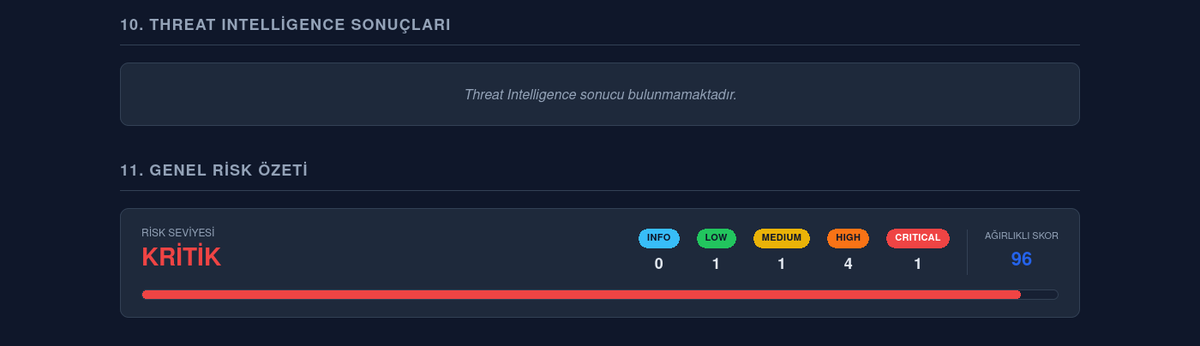
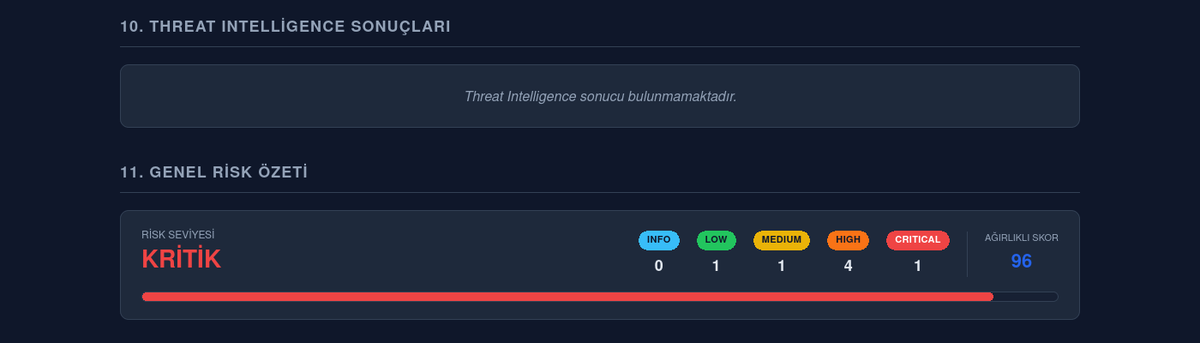
fix(reporter): "1 LOW bulgu = TEMİZ" hatası ve etiketiyle çelişen risk çubuğu
1) 1-3 puanlık skorlar "TEMİZ" raporlanıyordu.
   Eşik tablosu (0 TEMİZ, 4 DÜŞÜK, 5 ORTA, 15 YÜKSEK, 30 KRİTİK) 1, 2 ve 3
   puanlarını hiçbir banda koymuyordu; bu skorlar `>= 0` kovasına düşüp
   "TEMİZ" oluyordu. Yani 1-3 adet LOW bulgu içeren bir capture'da rapor,
   bulgu tablosunda o bulguları listelerken en üstte "Risk Seviyesi: TEMİZ"
   yazıyordu. Adli bir raporda hatanın bu yönü -- var olan bulguyu yok
   saymak -- en tehlikeli olanıdır.

   DÜŞÜK eşiği 4 -> 1. Testlerde sabitlenmiş sınırların HİÇBİRİ değişmiyor
   (4 hâlâ DÜŞÜK, 5 ORTA, 14 ORTA, 15 YÜKSEK, 29 YÜKSEK, 30 KRİTİK);
   yalnızca 1-3 aralığındaki boşluk kapanıyor. "TEMİZ" artık yalnızca
   ağırlıklı skor 0 iken görünür.

2) İlerleme çubuğu kendi etiketiyle çelişiyordu.
   Çubuk `min(skor, 100)` idi, yani skoru doğrudan yüzde sayıyordu. Tek bir
   CRITICAL bulgu 30 puan eder: rapor "Risk Seviyesi: KRİTİK" yazarken hemen
   altındaki çubuk %30 dolu, yani gözle "düşük risk" görünüyordu. Ters uçta
   20 HIGH (300 puan) ile 100 CRITICAL (3000 puan) çubukta ayırt
   edilemiyordu, ikisi de %100'e kırpılıyordu. Çubuk, adı "yüzde" olan ama
   hiçbir tanımlı büyüklüğü ölçmeyen bir göstergeydi.

   Çubuk artık skorun düştüğü BANDI gösteriyor: TEMİZ dışındaki dört bandın
   her biri çubuğun %25'ini kaplıyor, band içinde skorla orantılı
   ilerleniyor, sınırsız olan KRİTİK bandı eşiğin 4 katında doyuyor.
   Böylece KRİTİK daima >= %75 dolu görünür ve çubuk ile etiket asla
[…]

diff --git a/tests/snapshots/report_snapshot.html b/tests/snapshots/report_snapshot.html
@@ -652,8 +652,8 @@ Threat Intelligence sonucu bulunmamaktadır.
 </div>
 </div>
 </div>
-<div class="progress-bar-bg" title="Ağırlıklı risk skoru: 15 (gösterge 100'de sınırlandırılmıştır)">
-<div class="progress-bar-fill" style="width: 15%;"></div>
+<div class="progress-bar-bg" title="Ağırlıklı risk skoru: 15 — çubuk, skorun düştüğü risk bandını gösterir (her band çubuğun dörtte biri)">
+<div class="progress-bar-fill" style="width: 50%;"></div>
 </div>
 </div>
 </section>

diff --git a/tests/test_reporter.py b/tests/test_reporter.py
@@ -307,27 +307,33 @@ class TestRiskSummaryAndChartBuilderUnits:
         summary_score_60 = r.compute_risk_summary([make_finding(ThreatSeverity.CRITICAL)] * 2)
         assert summary_score_60.risk_level == "KRİTİK"
 
-    def test_risk_score_is_unbounded_but_display_value_is_clamped(self):
-        """Ham skor sınırsız kalmalı, sunum değeri 0-100 aralığına kırpılmalıdır.
+    def test_risk_score_is_unbounded_but_display_value_stays_in_range(self):
+        """Ham skor sınırsız kalmalı, sunum değeri 0-100 aralığında olmalıdır.
 
-        Şablon ilerleme çubuğunu `width: {{ skor }}%` ile çiziyordu; ham skor
-        sınırsız bir ağırlıklı toplam olduğundan (20 HIGH = 300) çubuk
-        kapsayıcısını taşırıyor ve rapor "300 / 100" gibi anlamsız bir değer
-        basıyordu. Eşik tablosu ham skora göre kalibre edildiği için ham
-        değerin kendisi ASLA kırpılmamalıdır.
+        Şablon ilerleme çubuğunu `width: {{ değer }}%` ile çiziyor; ham skor
+        sınırsız bir ağırlıklı toplam olduğundan (20 HIGH = 300) doğrudan
+        kullanılırsa çubuk kapsayıcısını taşırır. Eşik tablosu ham skora göre
+        kalibre edildiği için ham değerin kendisi ASLA kırpılmamalıdır.
+
+        NOT: Sunum değeri skorun kendisi DEĞİL, skorun düştüğü risk bandının
+        çubuktaki konumudur (bkz. _compute_risk_bar_position ve
+        TestRiskBarAndLevelConsistency). Bu testin eski hâli
+        `risk_score_normalized == risk_score` bekliyordu; o eşitlik tam da
+        "KRİTİK etiketi + %30 dolu çubuk" çelişkisinin kaynağıydı.
         """
         def make_finding(severity: ThreatSeverity) -> ThreatFinding:
             return ThreatFinding("ID", "Title", severity, "", {}, "src", "dst", FIXED_TEST_NOW)
 
         summary = r.compute_risk_summary([make_finding(ThreatSeverity.HIGH)] * 20)
         assert summary.risk_score == 300, "ham skor kırpılmamalı (eşik tablosu buna bağlı)"
-        assert summary.risk_score_normalized == 100, "sunum değeri 100'de sınırlanmalı"
+        assert summary.risk_score_normalized == 100, "çubuk kapsayıcısını taşımamalı"
         assert summary.risk_level == "KRİTİK"
 
-        # Eşiğin altındaki skorlarda iki değer birbirinin aynısı olmalı.
-        low_summary = r.compute_risk_summary([make_finding(ThreatSeverity.HIGH)])
-        assert low_summary.risk_score == 15
-        assert low_summary.risk_score_normalized == 15
+        # Tek bir HIGH: ham skor 15, ama çubuk YÜKSEK bandının başında olmalı.
+        high_summary = r.compute_risk_summary([make_finding(ThreatSeverity.HIGH)])
+        assert high_summary.risk_score == 15
+        assert high_summary.risk_level == "YÜKSEK"
+        assert high_summary.risk_score_normalized == 50
 
         assert r.compute_risk_summary([]).risk_score_normalized == 0
 
@@ -993,3 +999,91 @@ class TestLayeredProtocolChart:
 
         assert ids.index("layered_protocol_distribution") == ids.index("protocol_distribution") + 1
         assert len(charts) == 7
+
+
+class TestRiskBarAndLevelConsistency:
+    """Risk seviyesi etiketi ile ilerleme çubuğu asla çelişmemeli."""
+
+    # (etiket -> çubuğun izin verilen aralığı). Bantlar çubuğu dörde böler.
+    LEVEL_BANDS: ClassVar[dict[str, tuple[int, int]]] = {
+        "TEMİZ": (0, 0),
+        "DÜŞÜK": (1, 25),
+        "ORTA": (25, 50),
+        "YÜKSEK": (50, 75),
+        "KRİTİK": (75, 100),
+    }
+
+    @staticmethod
+    def _findings(**counts: int) -> list[ThreatFinding]:
+        out: list[ThreatFinding] = []
+        for name, n in counts.items():
+            severity = ThreatSeverity[name.upper()]
+            out.extend(
+                ThreatFinding(f"R-{name}-{i}", "t", severity, "d", {}, "src")
+                for i in range(n)
+            )
+        return out
+
+    def test_single_low_finding_is_not_reported_as_clean(self):
+        """1-3 puanlık skorlar "TEMİZ" DEĞİL "DÜŞÜK" olmalı.
+
+        Regresyon: DÜŞÜK eşiği 4'tü, dolayısıyla 1, 2 veya 3 adet LOW bulgu
+        hiçbir eşiği karşılamıyor ve "TEMİZ" kovasına düşüyordu. Rapor, bulgu
+        tablosunda gerçek bulguları listelerken en üstte "Risk Seviyesi:
+        TEMİZ" yazıyordu. Adli bir raporda hatanın bu yönü -- var olan bulguyu
+        yok saymak -- en tehlikelisidir.
+        """
+        for count in (1, 2, 3):
+            summary = r.compute_risk_summary(self._findings(low=count))
+            assert summary.risk_score == count
+            assert summary.total_findings == count
+            assert summary.risk_level == "DÜŞÜK", (
+                f"{count} adet LOW bulgu '{summary.risk_level}' olarak raporlandı"
+            )
+
+    def test_clean_is_reserved_for_zero_weight(self):
+        """"TEMİZ" yalnızca ağırlıklı skor 0 iken görünmeli."""
+        assert r.compute_risk_summary([]).risk_level == "TEMİZ"
+        # INFO'nun ağırlığı 0'dır (bilgilendirme, tehdit değil).
+        assert r.compute_risk_summary(self._findings(info=5)).risk_level == "TEMİZ"
+
+    @pytest.mark.parametrize(
+        "counts",
+        [
+            {"low": 1}, {"low": 4}, {"medium": 1}, {"medium": 2, "low": 4},
+            {"high": 1}, {"high": 1, "medium": 2, "low": 4},
+            {"critical": 1}, {"critical": 2},
+            {"critical": 1, "high": 4, "medium": 1, "low": 1},
+            {"high": 20}, {"critical": 100},
+        ],
+    )
+    def test_bar_position_always_matches_its_level_band(self, counts):
+        """Çubuğun doluluğu, etiketin bandının dışına ASLA çıkmamalı.
+
+        Regresyon: çubuk `min(skor, 100)` idi. Tek bir CRITICAL bulgu 30 puan
+        eder; rapor "KRİTİK" yazarken çubuk %30 dolu, yani gözle "düşük risk"
+        görünüyordu. Ters uçta 20 HIGH (300) ile 100 CRITICAL (3000) çubukta
+        ayırt edilemiyor, ikisi de %100'e kırpılıyordu.
+        """
+        summary = r.compute_risk_summary(self._findings(**counts))
+        low, high = self.LEVEL_BANDS[summary.risk_level]
+
+        assert low <= summary.risk_score_normalized <= high, (
+            f"skor={summary.risk_score} seviye={summary.risk_level} "
+            f"çubuk=%{summary.risk_score_normalized} bandın ({low}-{high}) dışında"
+        )
+
+    def test_bar_never_exceeds_container_width(self):
+        """Sınırsız skor, çubuğu kapsayıcısından taşırmamalı."""
+        summary = r.compute_risk_summary(self._findings(critical=1000))
+        assert summary.risk_score == 30000
+        assert summary.risk_score_normalized == r._RISK_SCORE_DISPLAY_MAX
+
+    def test_bar_is_monotonic_in_score(self):
+        """Skor arttıkça çubuk asla geri gitmemeli."""
+        positions = [
+            r._compute_risk_bar_position(score)
+            for score in range(0, 400)
+        ]
+        assert positions == sorted(positions)
+        assert positions[0] == 0

diff --git a/modules/reporter.py b/modules/reporter.py
@@ -81,10 +81,22 @@ _SEVERITY_WEIGHT: Final[dict[ThreatSeverity, int]] = {
 
 # (eşik_skoru, etiket, css_sınıfı) üçlüleri artan sırada. En yüksek eşiğe ulaşan
 # etiket kazanır (bkz. compute_risk_summary).
-# Test beklentilerine göre (0 -> TEMİZ, 4 -> DÜŞÜK, 5 -> ORTA, 15 -> YÜKSEK, 30 -> KRİTİK) ayarlanmıştır.
+#
+# Sabitlenmiş sınır değerleri (testlerle korunuyor, API sözleşmesi sayılır):
+# 0 -> TEMİZ, 4 -> DÜŞÜK, 5 -> ORTA, 14 -> ORTA, 15 -> YÜKSEK, 29 -> YÜKSEK,
+# 30 -> KRİTİK.
+#
+# DÜŞÜK eşiği 4 DEĞİL 1'dir. Daha önce 4'tü ve bu, adli bir araçta kabul
+# edilemez bir yanlış sonuç üretiyordu: 1, 2 veya 3 puanlık skorlar (yani
+# 1-3 adet LOW bulgu) hiçbir eşiği karşılamadığı için "TEMİZ" kovasına
+# düşüyordu. Rapor, bulgu tablosunda gerçek bulgular listelerken en üstte
+# "Risk Seviyesi: TEMİZ" yazıyordu. Bir DFIR raporunda hatanın bu yönü
+# (var olan bulguyu yok saymak) en tehlikeli olanıdır. 1'e çekmek, yukarıda
+# sabitlenmiş sınırların hiçbirini değiştirmez -- 4 hâlâ DÜŞÜK, 5 hâlâ ORTA --
+# yalnızca 1-3 aralığındaki boşluğu kapatır.
 _RISK_THRESHOLDS: Final[tuple[tuple[int, str, str], ...]] = (
     (0, "TEMİZ", "clean"),
-    (4, "DÜŞÜK", "low"),
+    (1, "DÜŞÜK", "low"),
     (5, "ORTA", "medium"),
     (15, "YÜKSEK", "high"),
     (30, "KRİTİK", "critical"),
@@ -92,14 +104,67 @@ _RISK_THRESHOLDS: Final[tuple[tuple[int, str, str], ...]] = (
 
 # `risk_score` SINIRSIZ bir ağırlıklı toplamdır (7 HIGH = 105, 20 HIGH = 300);
 # eşik tablosu bu ham değere göre kalibre edildiğinden ham değer asla
-# ölçeklenmemeli veya kırpılmamalıdır. Ancak rapor bu skoru "X / 100" olarak
-# ve genişliği `width: {{ skor }}%` olan bir ilerleme çubuğuyla gösteriyordu:
-# olaylı bir capture'da "300 / 100" gibi anlamsız bir değer basılıyor ve
-# çubuk kapsayıcısını taşırıyordu. Bu yüzden SUNUM için ayrı, 0-100 aralığına
-# kırpılmış bir alan (`risk_score_normalized`) üretilir; ham `risk_score`
-# ise metinde olduğu gibi, kırpılmadan gösterilmeye devam eder (kanıt kaybı
-# olmaz).
+# ölçeklenmemeli veya kırpılmamalıdır. İlerleme çubuğunun genişliği ise
+# `width: N%` olduğundan 0-100 aralığında bir değere ihtiyaç duyar.
 _RISK_SCORE_DISPLAY_MAX: Final[int] = 100
+
+# Çubuk, KRİTİK bandında eşiğin bu KATINA ulaşınca tamamen dolar
+# (30 * 4 = 120 puan). Sınırsız bir skoru sonlu bir çubuğa sığdırmak için bir
+# doyma noktası gerekir; 4 kat, "birkaç kritik bulgu" ile "capture baştan sona
+# saldırı" durumlarını ayırt edecek kadar geniştir.
+_CRITICAL_BAR_SATURATION_FACTOR: Final[int] = 4
+
+
+def _compute_risk_bar_position(risk_score: int) -> int:
+    """Ham risk skorunu ilerleme çubuğunun doluluk yüzdesine çevirir.
+
+    NEDEN DÜZ `min(skor, 100)` DEĞİL: Çubuk eskiden skoru doğrudan yüzde
+    olarak kullanıyordu ve bu, çubuğun RİSK SEVİYESİ ETİKETİYLE ÇELİŞMESİNE
+    yol açıyordu. Tek bir CRITICAL bulgu 30 puan eder; rapor "Risk Seviyesi:
+    KRİTİK" yazarken hemen altındaki çubuk %30 dolu -- yani gözle "düşük
+    risk" -- görünüyordu. Ters uçta ise 20 HIGH (300 puan) ile 100 CRITICAL
+    (3000 puan) çubukta ayırt edilemiyordu, ikisi de %100'e kırpılıyordu.
+    Çubuk, adı "yüzde" olan ama hiçbir tanımlı büyüklüğü ölçmeyen bir
+    göstergeydi.
+
+    Bunun yerine çubuk artık SEVİYE BANDINI gösterir: TEMİZ dışındaki dört
+    bandın (DÜŞÜK/ORTA/YÜKSEK/KRİTİK) her biri çubuğun %25'ini kaplar, band
+    içinde skorla orantılı olarak ilerlenir. Böylece KRİTİK daima >= %75
+    dolu görünür ve çubuk ile etiket asla çelişmez. KRİTİK bandı sınırsız
+    olduğu için eşiğin `_CRITICAL_BAR_SATURATION_FACTOR` katında doyar.
+
+    Ham `risk_score` bu dönüşümden ETKİLENMEZ; raporda olduğu gibi, sayı
+    olarak gösterilmeye devam eder (kanıt kaybı olmaz).
+    """
+    if risk_score <= 0:
+        return 0
+
+    thresholds = [threshold for threshold, _label, _css in _RISK_THRESHOLDS]
+    band_count = len(thresholds) - 1  # TEMİZ bandı çubukta yer kaplamaz
+    band_width = _RISK_SCORE_DISPLAY_MAX / band_count
+
+    # Skorun içine düştüğü bandı bul (1..band_count).
+    band_index = 1
+    for i in range(1, len(thresholds)):
+        if risk_score >= thresholds[i]:
+            band_index = i
+
+    band_start = thresholds[band_index]
+    if band_index < len(thresholds) - 1:
+        band_end = thresholds[band_index + 1]
+    else:
+        # En üst (KRİTİK) band sınırsız; yapay bir doyma noktası kullanılır.
+        band_end = band_start * _CRITICAL_BAR_SATURATION_FACTOR
+
+    span = band_end - band_start
+    progress = (risk_score - band_start) / span if span > 0 else 1.0
+    progress = min(max(progress, 0.0), 1.0)
+
+    position = (band_index - 1) * band_width + progress * band_width
+    # Sıfırdan büyük her skor gözle görülür bir dolgu üretmeli; aksi halde
+    # "DÜŞÜK" seviyesi tamamen boş bir çubukla, yani "TEMİZ" ile aynı
+    # görünürdü.
+    return max(1, min(round(position), _RISK_SCORE_DISPLAY_MAX))
 
 # Öncelik sıralaması açıkça tanımlanmıştır; Enum sırası değişse dahi
 # sıralama mantığı bozulmaz (CRITICAL > HIGH > MEDIUM > LOW > INFO).
@@ -196,8 +261,10 @@ class RiskSummary:
     risk_score: int
     risk_level: str
     risk_class: str
-    # Yalnızca SUNUM içindir (ilerleme çubuğu genişliği); karşılaştırma veya
-    # eşik mantığında kullanılmamalıdır — bkz. _RISK_SCORE_DISPLAY_MAX.
+    # İlerleme çubuğunun doluluk yüzdesi (0-100). Skorun kendisi DEĞİL,
+    # skorun içine düştüğü risk BANDININ çubuktaki konumudur — bkz.
+    # _compute_risk_bar_position. Yalnızca SUNUM içindir; karşılaştırma veya
+    # eşik mantığında asla kullanılmamalıdır (onun için risk_score vardır).
     # Varsayılan değeri kasıtlı olarak yoktur: sessizce 0 genişlikli bir
     # çubuk üretmek yerine, eksik bırakılırsa kurulum anında hata versin.
     risk_score_normalized: int
@@ -240,7 +307,7 @@ def compute_risk_summary(findings: Sequence[ThreatFinding]) -> RiskSummary:
         risk_score=risk_score,
         risk_level=risk_level,
         risk_class=risk_class,
-        risk_score_normalized=min(risk_score, _RISK_SCORE_DISPLAY_MAX),
+        risk_score_normalized=_compute_risk_bar_position(risk_score),
     )
 
 

diff --git a/CLAUDE.md b/CLAUDE.md
@@ -71,13 +71,13 @@ Data contracts live in `modules/models.py` and are shared across every stage: `P
 
 **`modules/threat_intel.py`** — Strictly scoped to enrichment only (`IP → provider queries → NormalizedIOCResult`); it does not do scoring, severity, or report generation by design (YAGNI, left to `reporter.py`). Each provider is a `ThreatIntelProvider` subclass implementing only `query()` and, optionally, `_extract_provider_error()` for its own error JSON shape; shared HTTP mechanics (timeout, retry-aware session, error classification into `ProviderErrorCode`) live in the base class's `_execute_request`. `NormalizedIOCResult.is_malicious` is a tri-state (`True`/`False`/`None`) — `None` means the provider couldn't render a verdict (e.g., no data), and must not be treated as "clean". `ThreatIntelService.enrich()` caches per-IP results and never raises on a provider failure — a provider exception becomes an error `NormalizedIOCResult` instead, so one bad provider can't take down enrichment for the rest. Only globally-routable IPs are queried (`main.py`'s `_is_public_ip` filter) since private/reserved ranges are meaningless to these providers and some (e.g. OTX) reject them outright.
 
-**`modules/reporter.py`** — Strict separation between view (`templates/report.html.j2`, Jinja2) and generation logic (this file). `ChartBuilder` turns statistics into base64-embedded matplotlib PNGs (`matplotlib.use("Agg")`, no GUI backend) plus `TableRow` data — it has no knowledge of Jinja2 or the filesystem, so it's unit-testable in isolation. `compute_risk_summary` is a pure function (`findings → RiskSummary`) driven by the severity-weight table (`_SEVERITY_WEIGHT`) and ordered threshold table (`_RISK_THRESHOLDS`); the exact threshold values are pinned to test expectations (see the comment in `reporter.py`) — treat them as an API contract, not a tunable. `risk_score` is an *unbounded* weighted sum (20 HIGH findings = 300) and the threshold table is calibrated against that raw value, so it must never be scaled or clamped; the template renders it as-is. `risk_score_normalized` (clamped to `_RISK_SCORE_DISPLAY_MAX`) exists purely so the progress bar's `width: N%` cannot overflow its container — use it for presentation only, never for comparisons or thresholds. `Reporter` itself only orchestrates: validates input, calls `ChartBuilder`/`compute_risk_summary`, renders the template, writes the file. The generated report is a single HTML file with no external references (charts inlined as base64) so it can be opened offline on an air-gapped forensic workstation.
+**`modules/reporter.py`** — Strict separation between view (`templates/report.html.j2`, Jinja2) and generation logic (this file). `ChartBuilder` turns statistics into base64-embedded matplotlib PNGs (`matplotlib.use("Agg")`, no GUI backend) plus `TableRow` data — it has no knowledge of Jinja2 or the filesystem, so it's unit-testable in isolation. `compute_risk_summary` is a pure function (`findings → RiskSummary`) driven by the severity-weight table (`_SEVERITY_WEIGHT`) and ordered threshold table (`_RISK_THRESHOLDS`); the exact threshold values are pinned to test expectations (see the comment in `reporter.py`) — treat them as an API contract, not a tunable. `risk_score` is an *unbounded* weighted sum (20 HIGH findings = 300) and the threshold table is calibrated against that raw value, so it must never be scaled or clamped; the template renders it as-is. `risk_score_normalized` is the progress bar's fill percentage and is **not** the score — it is the position of the score's risk *band* on the bar (`_compute_risk_bar_position`: the four non-clean bands each occupy a quarter, interpolated within the band, the unbounded CRITICAL band saturating at `_CRITICAL_BAR_SATURATION_FACTOR` × its threshold). It was previously `min(risk_score, 100)`, which made the bar contradict its own label — one CRITICAL finding scores 30, so the report printed "KRİTİK" above a bar that was 30% full, reading visually as low risk. Use it for presentation only, never for comparisons or thresholds. `Reporter` itself only orchestrates: validates input, calls `ChartBuilder`/`compute_risk_summary`, renders the template, writes the file. The generated report is a single HTML file with no external references (charts inlined as base64) so it can be opened offline on an air-gapped forensic workstation.
 
 **`config.py`** — Single source of truth for all thresholds, time windows, directory paths (auto-created on import), API base URLs/env-var names, and lookup tables (`PROTOCOL_MAP`, `DNS_QTYPE_MAP`). Detection rules and report thresholds should read from here rather than hardcoding values inline. `TOOL_VERSION` also lives here and is the *only* place the version is written — `main.py`'s banner, `reporter._TOOL_VERSION` (which the report prints under "Araç Sürümü") and `pyproject.toml` must all agree; a test asserts this, because three copies had already drifted apart once.
 
 ## Testing conventions
 
-- 224 tests across `tests/test_{main,parser,statistics,threat_detector,threat_intel,reporter}.py`, no `conftest.py` — fixtures are defined locally per test file.
+- 239 tests across `tests/test_{main,parser,statistics,threat_detector,threat_intel,reporter}.py`, no `conftest.py` — fixtures are defined locally per test file.
 - Tests must never write into the project tree. `Reporter.generate()` derives its output path from `config.REPORTS_DIR`, so any test that calls it has to monkeypatch that attribute (`test_reporter.py` does it via an autouse `isolated_reports_dir` fixture, `test_main.py` inline); without it every run left artifacts in the real `reports/clean/`.
 - `tests/snapshots/report_snapshot.html` is used for reporter snapshot-style assertions.
 - Samples for manual/integration testing live under `samples/clean/` and `samples/malicious/`; actual `.pcap`/`.pcapng` files are gitignored (only `.gitkeep` is tracked) — don't assume a sample file exists in a fresh checkout.

diff --git a/README.md b/README.md
@@ -30,7 +30,7 @@ python main.py -f samples/malicious/demo_capture.pcapng
 
 ![Threat findings](docs/report-findings.png)
 
-**Weighted risk summary:**
+**Weighted risk summary** — the score is an unbounded weighted sum (CRITICAL 30, HIGH 15, MEDIUM 5, LOW 1), so it keeps rising with the number of findings instead of saturating. The bar tracks the *risk band*, not the raw number, so it can never contradict the label next to it:
 
 ![Risk summary](docs/report-risk.png)
 
@@ -229,7 +229,7 @@ pip-audit                                           # dependency vulnerability s
 
 Ruff and pytest are configured in `pyproject.toml`. CI runs lint, a dependency vulnerability scan (`pip-audit`, covering transitive dependencies) and the test suite on every push.
 
-**Current status:** 224 / 224 tests passing · **92%** total coverage (branch coverage enabled)
+**Current status:** 239 / 239 tests passing · **92%** total coverage (branch coverage enabled)
 
 | Module | Coverage |
 | --- | --- |
